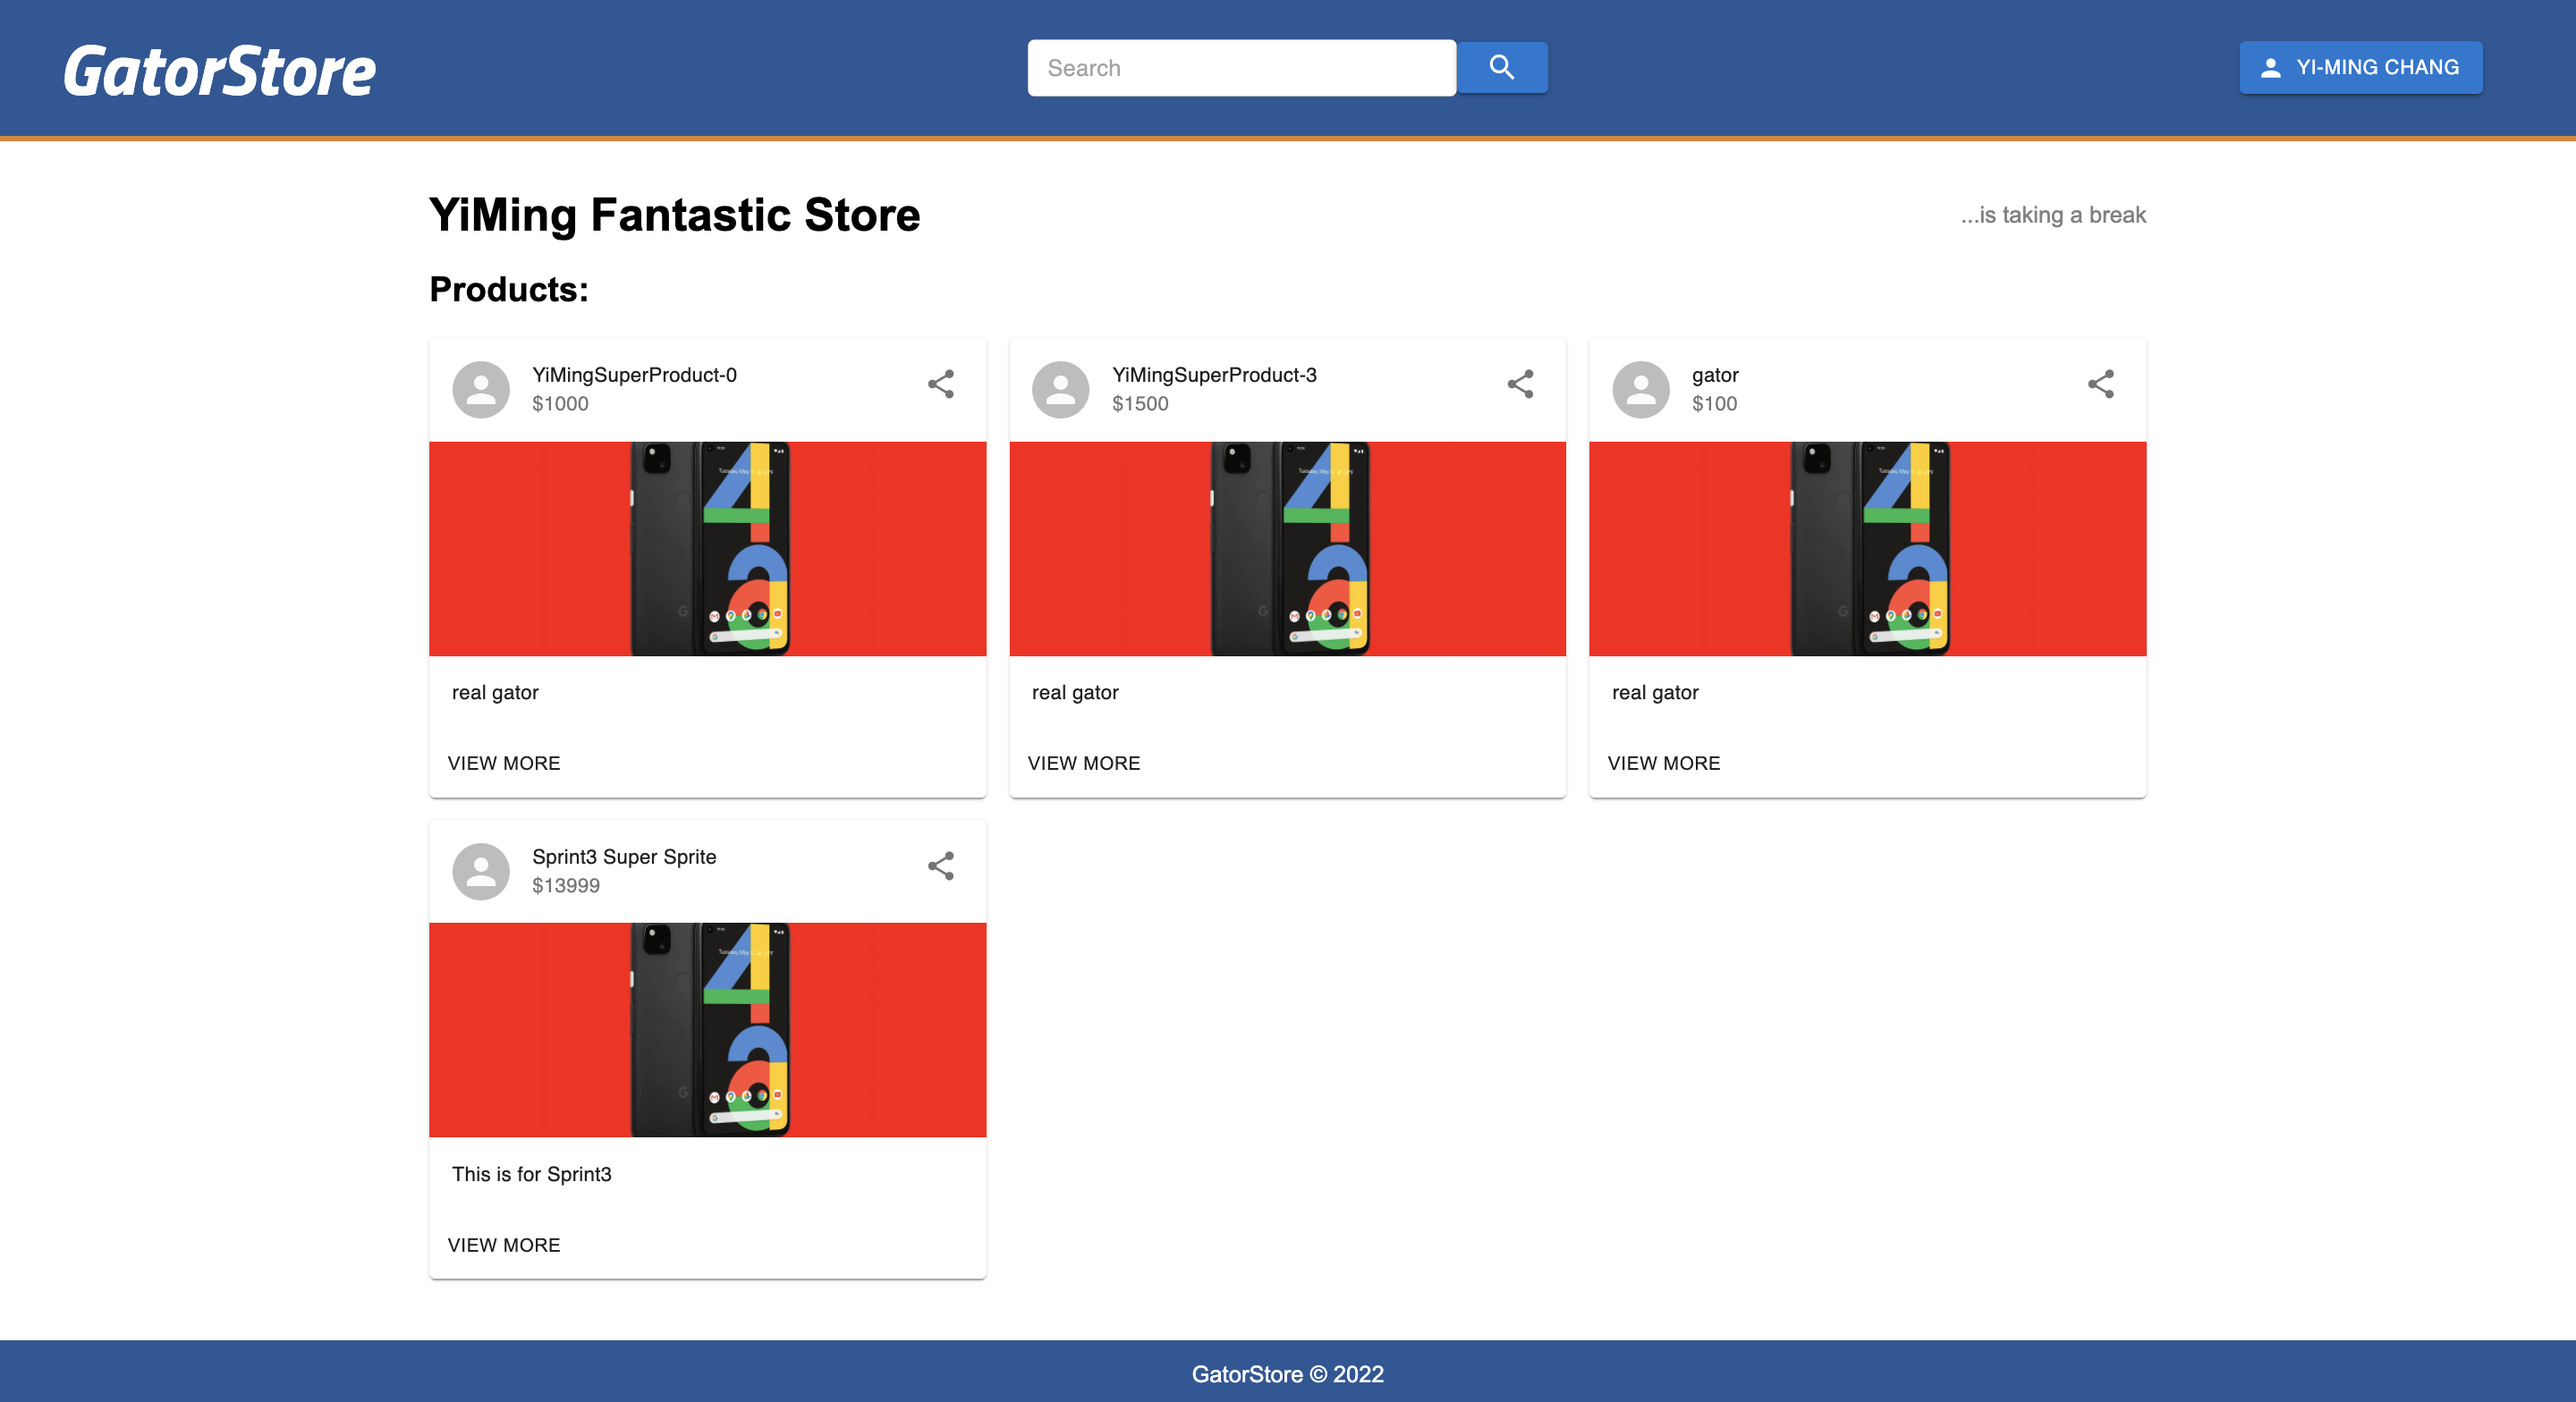
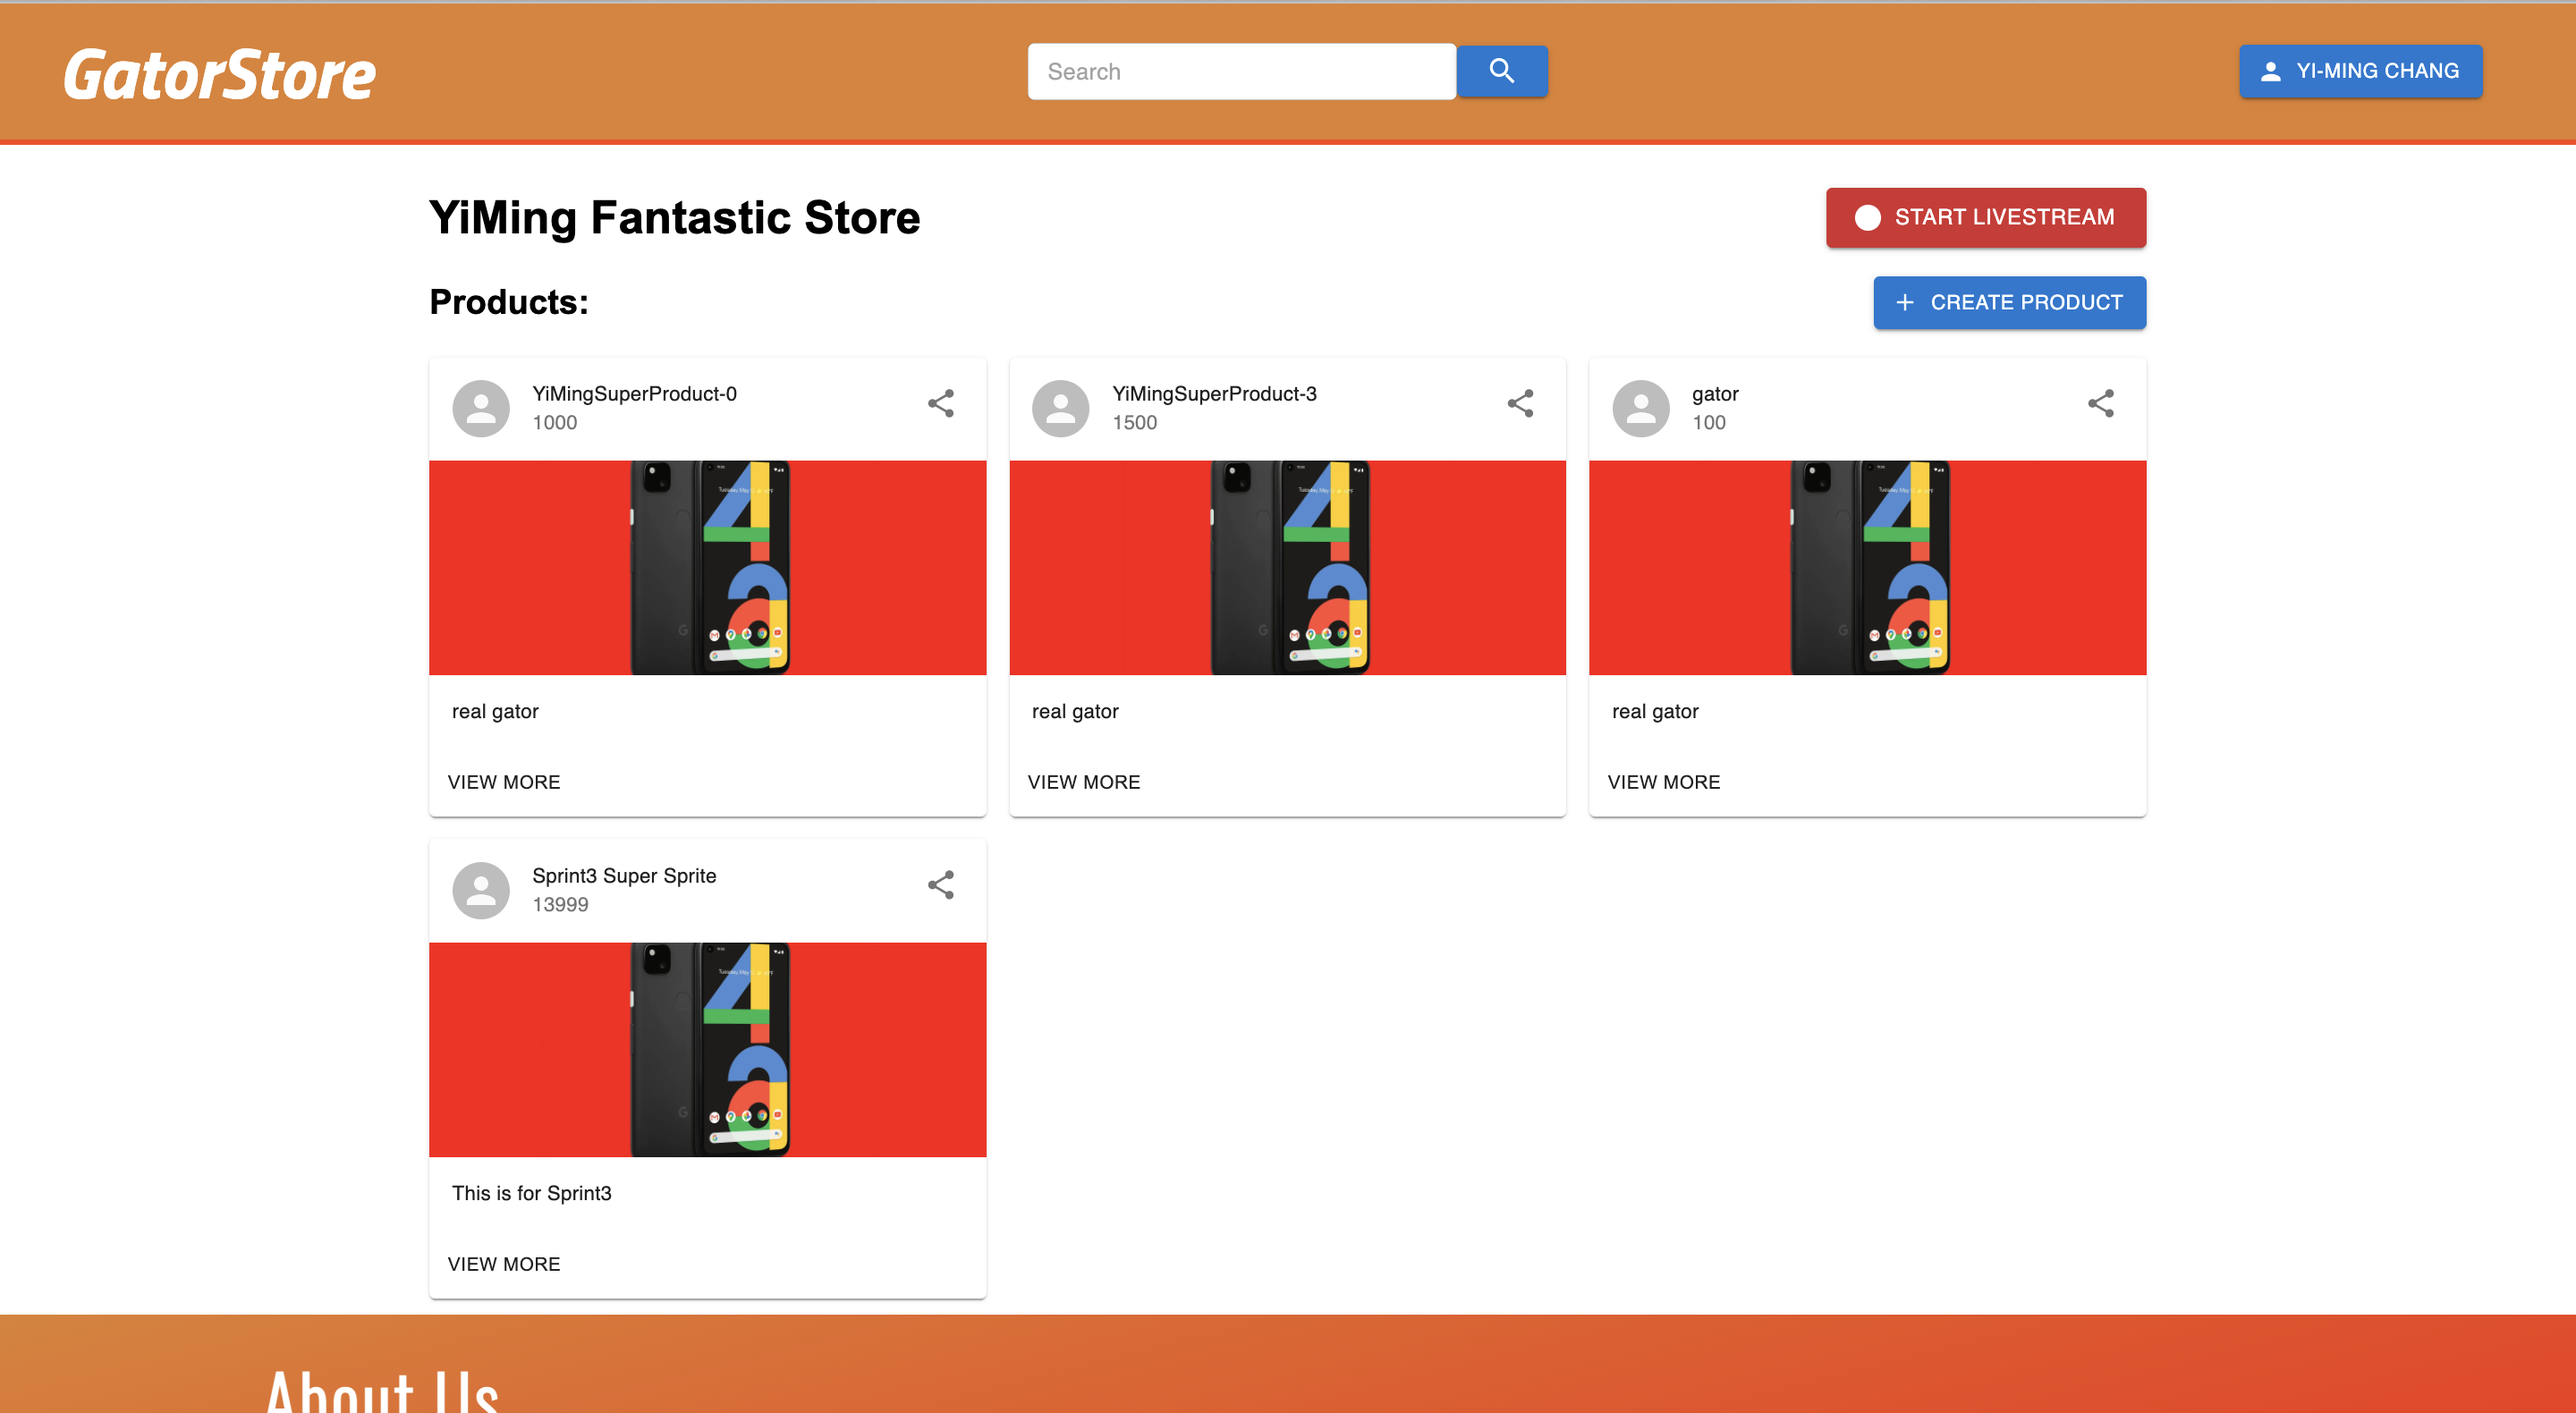
adding new image in content

diff --git a/seller-frontend/gatorstore/src/pages/LandingPage.js b/seller-frontend/gatorstore/src/pages/LandingPage.js
@@ -124,7 +124,7 @@ function LandingPage() {
                         Open up Stores
                     </div>
                     <div className='block-content'>
-                        Create your own store for custmer to online-shopping easily. <br/> 
+                        Create your own store for customer to online-shopping easily. <br/> 
                         Manage multiple store in the same platform efficiently. 
                     </div>
                 </div>
@@ -132,8 +132,8 @@ function LandingPage() {
                 <div style={{width: 2, height: 300, backgroundColor: '#FA4616'}}/>
                 <div style={{width: '2%'}}/>
                 <img 
-                    alt='storeProducts' 
-                    src='/storeProductImage.png'
+                    alt='storeList' 
+                    src='/storeListImage.png'
                     className='block-img'
                     style={{
                         height: 500, 
@@ -220,8 +220,94 @@ function LandingPage() {
                 <div style={{width: 2, height: 300, backgroundColor: '#FA4616'}}/>
                 <div style={{width: '2%'}}/>
                 <img 
-                    alt='storeProducts' 
-                    src='/storeProductImage.png'
+                    alt='storeLiveStream' 
+                    src='/liveStreamImage.png'
+                    className='block-img'
+                    style={{
+                        height: 500, 
+                        width: '46%', 
+                        marginTop: 106.5, 
+                        borderRadius: 15
+                    }}
+                />  
+                <div style={{width: '2%'}}/>
+            </div>
+            <div
+                style={{ 
+                display: 'flex',
+                height: 600, 
+                width: '100%', 
+                marginTop: 10, 
+                flexDirection: 'row',
+                justifyContent: 'center',
+                alignItems: 'center'
+            }}>
+                <div style={{width: '2%'}}/>
+                <img 
+                    alt='liveObs' 
+                    src='/liveObs.gif'
+                    className='block-img'
+                    style={{
+                        height: 500, 
+                        width: '46%', 
+                        marginTop: 106.5, 
+                        borderRadius: 15
+                    }}
+                />
+                <div style={{width: '2%'}}/>
+                <div style={{width: 2, height: 300, backgroundColor: '#FA4616'}}/>
+                <div style={{width: '2%'}}/>
+                <div style={{
+                    display: 'flex', 
+                    height: '100%', 
+                    width: '46%', 
+                    flexDirection: 'column',
+                    justifyContent: 'center',
+                    textAlign: 'left' 
+                }}> 
+                    <div className='block-title'>
+                        Stream by OBS 
+                    </div>
+                    <div className='block-content'>
+                        The Store Page is the hub for live user interactions and browsing through the products. <br/> 
+                        You can visit each of the products to buy them by clicking on "View More" beneath each. 
+                    </div>
+                </div>
+                <div style={{width: '2%'}}/>
+            </div>
+            <div
+                style={{ 
+                display: 'flex',
+                height: 600, 
+                width: '100%', 
+                marginTop: 10, 
+                flexDirection: 'row',
+                justifyContent: 'center',
+                alignItems: 'center'
+            }}>
+                <div style={{width: '2%'}}/>
+                <div style={{
+                    display: 'flex', 
+                    height: '100%', 
+                    width: '46%', 
+                    flexDirection: 'column',
+                    justifyContent: 'center',
+                    textAlign: 'right' 
+                }}> 
+                    <div className='block-title'>
+                        Live History with Orders 
+                    </div>
+                    <div className='block-content'>
+                        The Store Page is the hub for live user interactions and browsing through the products. <br/> 
+                        You can visit each of the products to buy them by clicking on "View More" beneath each. 
+                    </div>
+                </div>
+                <div style={{width: '2%'}}/>
+                <div style={{width: 2, height: 300, backgroundColor: '#FA4616'}}/>
+                <div style={{width: '2%'}}/>
+                <img 
+                    alt='liveHistoryListImage' 
+                    src='/liveHistoryListImage.png'
                     className='block-img'
                     style={{
                         height: 500, 
@@ -245,8 +331,8 @@ function LandingPage() {
             }}>
                 <div style={{width: '2%'}}/>
                 <img 
-                    alt='storeProducts' 
-                    src='/storeProductImage.png'
+                    alt='orderHistory' 
+                    src='/orderHistoryImage.png'
                     className='block-img'
                     style={{
                         height: 500, 
@@ -280,7 +366,7 @@ function LandingPage() {
                 display: "flex", 
                 height: '600px', 
                 width: '100%', 
-                marginTop: 30, 
+                marginTop: 100, 
                 justifyContent: 'center',
                 alignItems: 'center',
                 backgroundImage: "url(/tower-login.jpeg)",

diff --git a/seller-frontend/gatorstore/src/pages/SellerStorePage.js b/seller-frontend/gatorstore/src/pages/SellerStorePage.js
@@ -77,7 +77,7 @@ function SellerStorePage() {
 
               var inputEmbedStreamHTML = '<iframe width="490" height="315" src="https://www.youtube.com/embed/' + response.result.liveId + '" title="YouTube video player" frameborder="0" allow="accelerometer; autoplay; clipboard-write; encrypted-media; gyroscope; picture-in-picture" allowfullscreen></iframe>'
               SetEmbedHTML(inputEmbedStreamHTML);
-              var inputEmbedChatHTML = '<iframe width="494" height="315" src="https://www.youtube.com/live_chat?v=' + response.result.liveId + '&embed_domain=localhost" frameborder="0"></iframe>';
+              var inputEmbedChatHTML = '<iframe width="494" height="315" src="https://www.youtube.com/live_chat?v=' + response.result.liveId + `&embed_domain=${settings.domain}" frameborder="0"></iframe>`;
               SetEmbedChatHTML(inputEmbedChatHTML);
               
               SetLiveId(response.result.liveId)
@@ -337,7 +337,7 @@ function SellerStorePage() {
           var embedStreamHTML = '<iframe width="560" height="315" src="https://www.youtube.com/embed/' + response.result.liveId + '"' +  ' frameborder="0" allow="accelerometer; autoplay; encrypted-media; gyroscope; picture-in-picture" allowfullscreen></iframe>'
           SetEmbedHTML(embedStreamHTML);
 
-          var inputEmbedChatHTML = '<iframe width="494" height="315" src="https://www.youtube.com/live_chat?v=' + response.result.liveId + '&embed_domain=localhost" frameborder="0"></iframe>';
+          var inputEmbedChatHTML = '<iframe width="494" height="315" src="https://www.youtube.com/live_chat?v=' + response.result.liveId + `&embed_domain=${settings.domain}" frameborder="0"></iframe>`;
           SetEmbedChatHTML(inputEmbedChatHTML);
         } else {
           alert("ERROR: YouTube API did not respond with 'success' status code.");
@@ -553,7 +553,7 @@ function SellerStorePage() {
 
       <Overlay/>
 
-      <div style={{minHeight: "80vh"}}>
+      <div style={{minHeight: "80vh", marginTop: 30}}>
         <LiveInfoBar />
 
         <ProductsHeader/>

diff --git a/seller-frontend/gatorstore/src/settings.js b/seller-frontend/gatorstore/src/settings.js
@@ -1,3 +1,4 @@
+const domain = 'localhost'
 export default {
     HeaderText: {
         'fontFamily': 'Titillium Web',
@@ -13,9 +14,10 @@ export default {
         'major': 'Titillium Web',
         'secondary': 'Audiowide'
     },
-    apiHostURL: 'http://localhost:8080/api/',
-    testApiHostURL: 'http://localhost:8080/test/api',
-    googleLoginRedirectURL: 'http%3A%2F%2Flocalhost%3A3000%2Flogin',
-    applicationRootURL: 'http://localhost:3000',
-    buyerAppURL: 'http://localhost:3001'
+    apiHostURL: `http://${domain}:8080/api/`,
+    testApiHostURL: `http://${domain}:8080/test/api`,
+    googleLoginRedirectURL: `http%3A%2F%2F${domain}%3A3000%2Flogin`,
+    applicationRootURL: `http://${domain}:3000`,
+    buyerAppURL: 'http://localhost:3001',
+    domain: domain
 }
